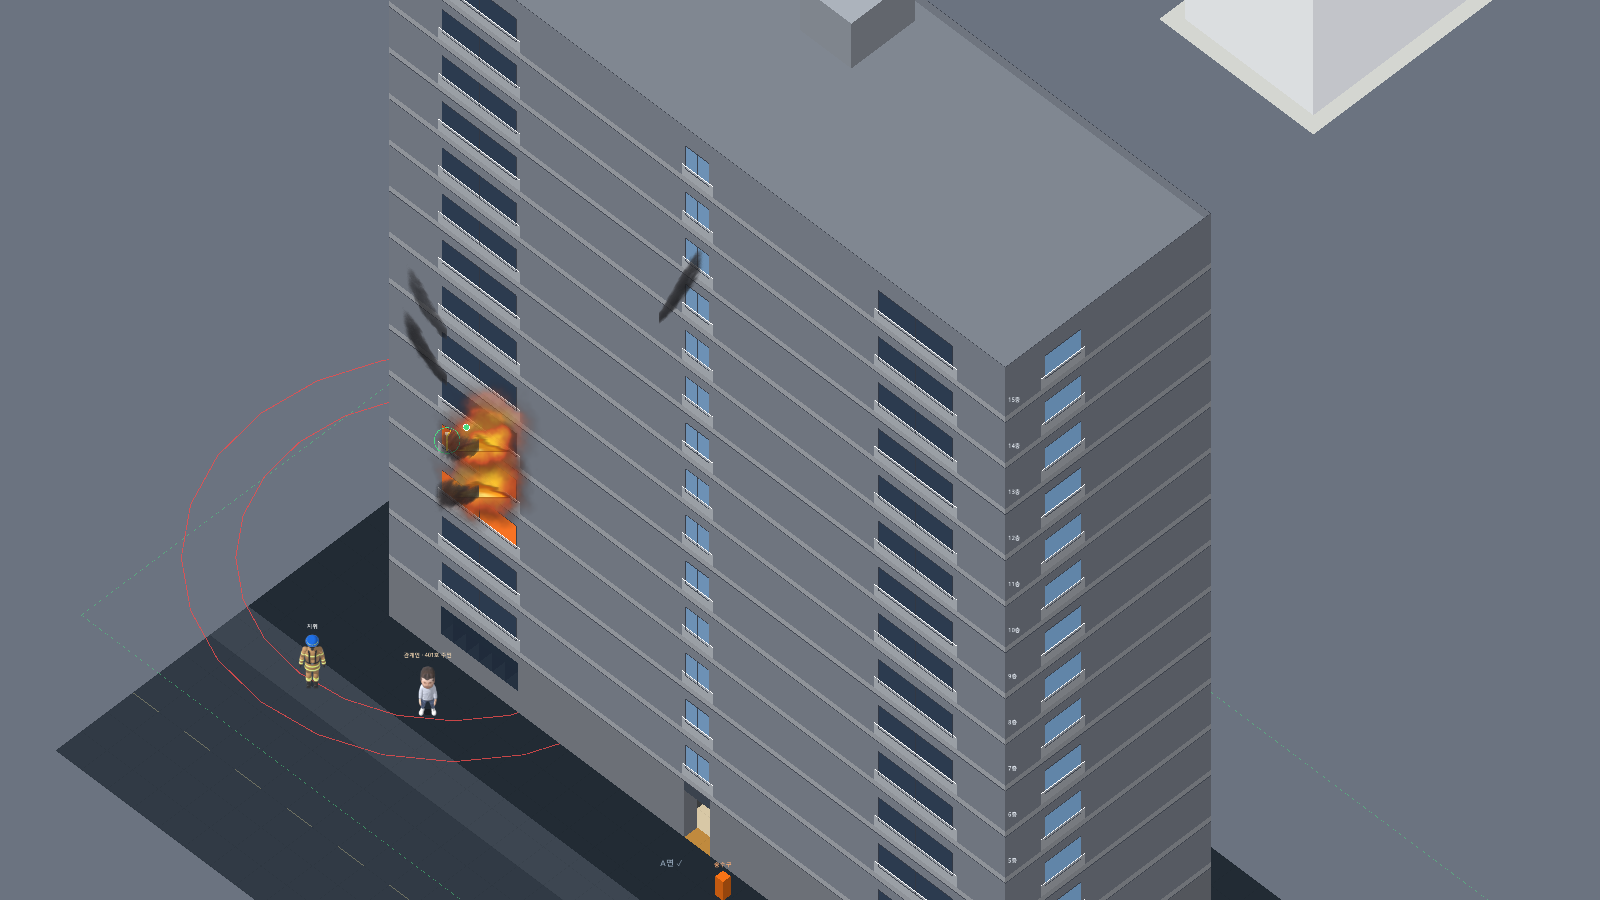
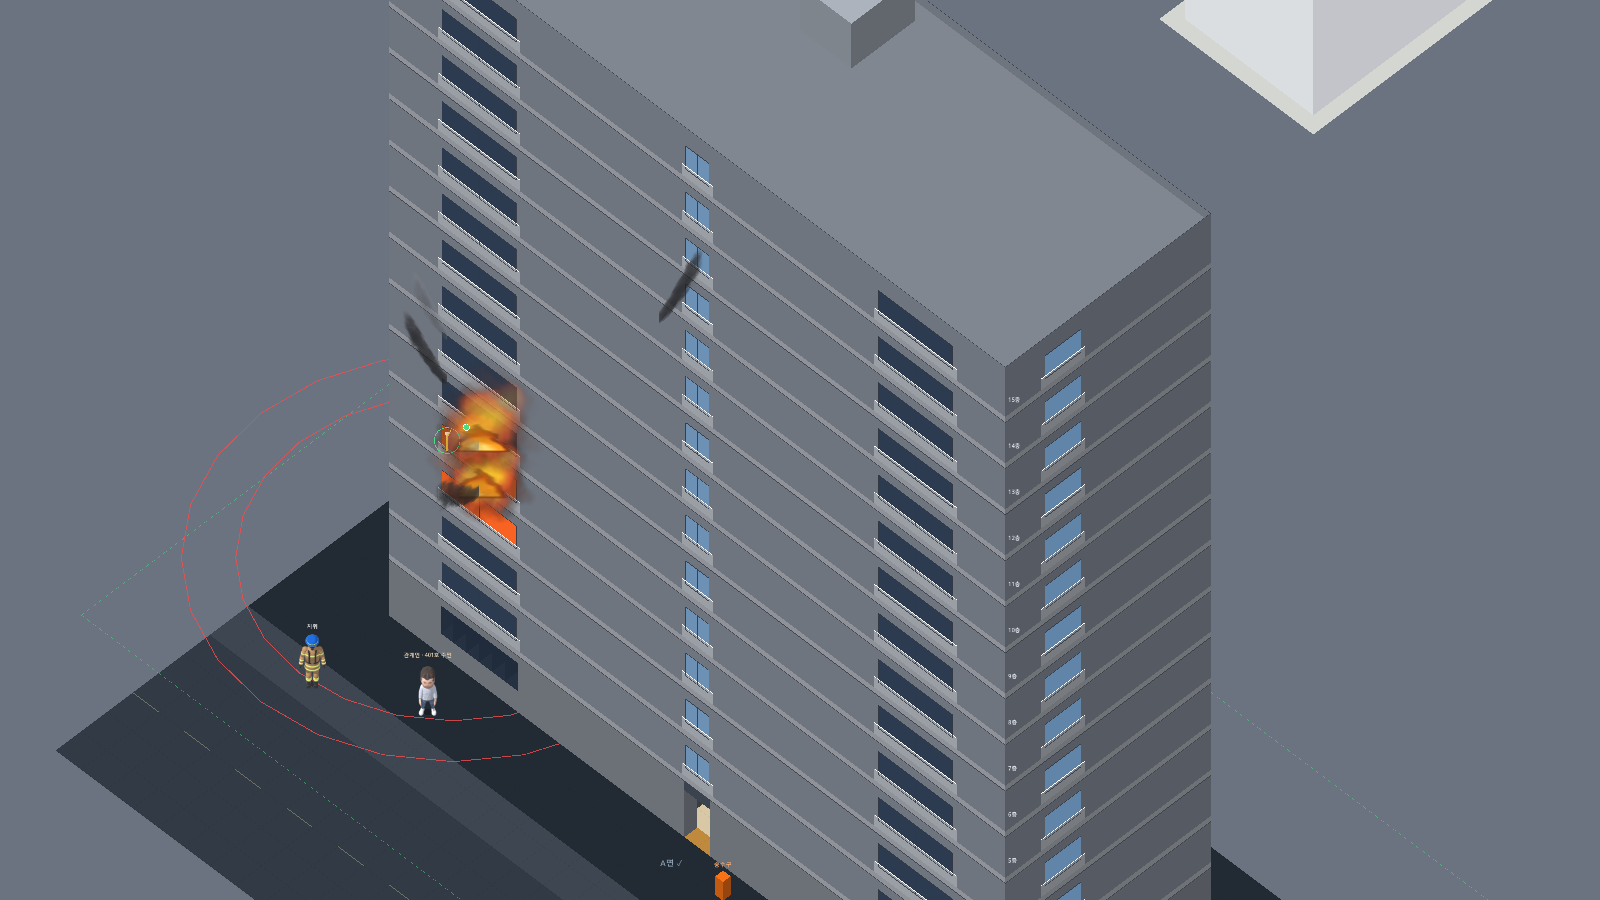
F01: 위층 바닥 턱을 벽 끝까지·1.5m·깨진 가장자리로, 지금 층 계단을 입체 디딤판으로

Changed region(s): [[0.25, 0.4356, 0.3438, 0.5911], [0.25, 0.3111, 0.2812, 0.3733]]

diff --git a/docs/decisions.md b/docs/decisions.md
@@ -127,3 +127,4 @@
 | 2026-11-12 | F01 | 다른 층 점선 벽도 두께 상자 | 다른 층 바깥벽 중 면을 칠하지 않는 벽(위층 앞벽·오른쪽 벽, 아래층 바깥벽)은 한 칸 두께 상자의 모서리(바닥·천장 네 변 + 세로 모서리)를 흰 점선으로. 실내 벽은 바닥 높이 점선 한 줄 유지 | 사용자 결정 — 반투명 상자(뒷벽·왼쪽 벽)와 두께·끝을 맞춰 통일. 앞쪽은 면을 칠하면 지금 층을 가려 선만 |
 | 2026-11-12 | F01 | 다른 층 불은 화면에 안 그림 | 다른 층(위·아래)의 불빛 번짐을 없앰. 어느 층에 불이 있는지는 층 막대(본 불 = 빨강·주황 창)·무전·상황판으로 | 사용자 결정 — 2층을 볼 때 1층 불빛이 2층 바닥 위에 비쳐 2층 불처럼 헷갈림(바닥을 뚫고 보일 수도 없음). 1층에서 2층 불을 볼 때도 1층 뒤쪽 방과 겹침. '뜨거운 바닥' 표시는 나중에 열화상과 함께 검토 |
 | 2026-11-12 | F01 | 위층: 뒷벽 상자 + 바닥 턱 + 바깥 점선 한 줄 | 위층은 ① 뒷벽(북)·왼쪽 벽(서) 반투명 두께 상자 ② 그 두 벽을 따라 폭 1m 바닥 턱(가운데가 뚫린 바닥, 바닥판 두께 0.2m 표시) ③ 앞·오른쪽은 건물 가장 바깥 윤곽 점선 한 줄(바닥선·천장선·세 모서리 세로선). 위층 실내 벽 점선과 두께 상자 점선은 없앰. 아래층은 바깥벽 점선(한 줄)·실내 벽 점선 유지 | 사용자 결정 — 점선을 두께 상자로 그리니 면처럼 복잡해 보임. 턱은 이 시점에서 지금 층 뒷벽 윗부분만 살짝 물고 방 안을 가리지 않음 |
+| 2026-11-12 | F01 | 위층 바닥 턱 다듬기·입체 계단 | 턱을 두 벽의 끝까지, 폭 1.0 → 1.5m, 안쪽 가장자리는 불규칙하게 깨진 모양(고정 난수 ±0.2m) + 그 변을 따라 바닥판 두께. 지금 층의 올라가는 계단을 입체 디딤판으로(위층이 함께 보일 때 — 예전에는 아래로 보이는 층에서만 그렸다) | 사용자 결정 — 턱 끝이 벽과 안 맞았고, 깨져 뚫린 바닥처럼 보이길 원함. 계단이 바닥 무늬로만 보였음 |

diff --git a/docs/progress.md b/docs/progress.md
@@ -53,3 +53,4 @@
 | 2026-11-12 | F01 다른 층 점선 벽 두께 상자 | scripts/ui/building/floor_layer(_draw_adjacent 점선 상자 윤곽) | 다음: 튜토리얼 단계 정비 |
 | 2026-11-12 | F01 다른 층 불 숨김 | scripts/ui/building/floor_layer(_draw_ghost_glow는 남은 빛만 지움), data/ui/view_params(설명) | 다음: 튜토리얼 단계 정비 |
 | 2026-11-12 | F01 위층 바닥 턱·바깥 점선 한 줄 | scripts/ui/building/floor_layer(_draw_adjacent·_draw_upper_ledge·_draw_upper_outline)·view_params, data/ui/view_params(ghost_ledge_m·ghost_slab_m), tests/test_cutaway | 다음: 튜토리얼 단계 정비 |
+| 2026-11-12 | F01 턱 깨진 가장자리·입체 계단 | scripts/ui/building/floor_layer(_draw_upper_ledge)·view_params, scripts/ui/iso_view(지금 층 upper_level), data/ui/view_params(ghost_ledge_m 1.5·ghost_ledge_jag_m), tests/test_cutaway | 다음: 튜토리얼 단계 정비 |
